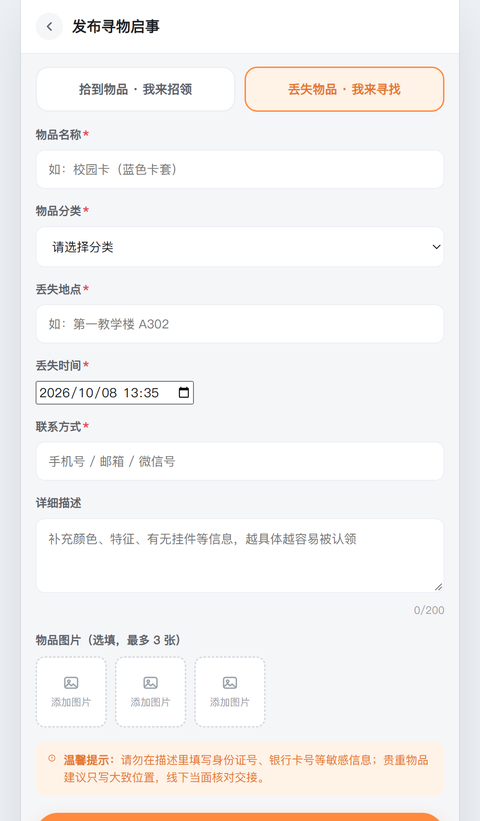
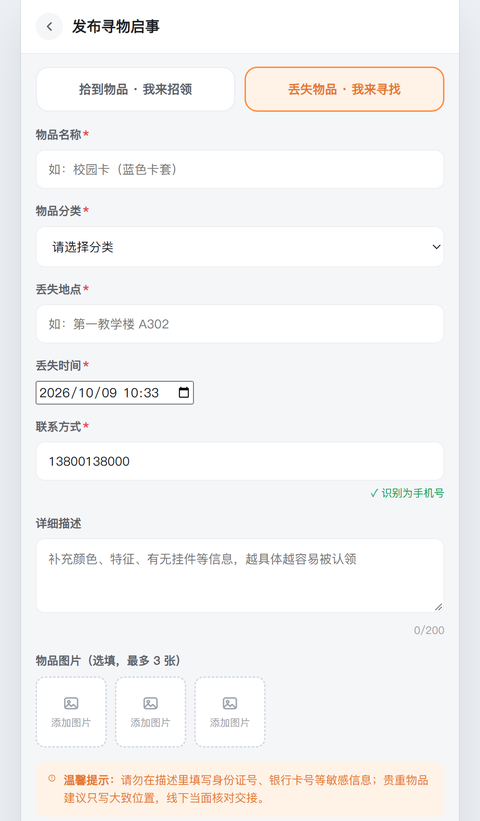
docs: 重出界面预览截图，补上收藏分段、联系方式预填与卡片缩略图

diff --git a/README.md b/README.md
@@ -38,13 +38,18 @@
 
 ## 二、界面预览
 
-点开就能用的四个主要界面（图是 2 倍图缩到 480px）：
+点开就能用的六个主要界面（图是 2 倍图缩到 480px）：
 
 | 首页 | 搜索（命中关键词会高亮） |
 | :---: | :---: |
 | ![首页](screenshots/01-首页.png) | ![搜索页](screenshots/02-搜索页.png) |
-| **发布页 · 寻物**（招领页同结构、换配色与字段） | **我的发布** |
-| ![发布页](screenshots/03-发布页.png) | ![我的发布](screenshots/04-我的发布.png) |
+| **发布页 · 寻物**（联系方式已预填、边打边提示识别结果） | **信息详情页**（联系方式打码 + 一键复制） |
+| ![发布页](screenshots/03-发布页.png) | ![详情页](screenshots/06-详情页.png) |
+| **我的发布**（分段含「收藏 N」；第一条卡片用上了缩略图） | **收藏列表**（自己收藏的和别人的混在一起排） |
+| ![我的发布](screenshots/04-我的发布.png) | ![收藏列表](screenshots/05-收藏列表.png) |
+
+> 说明：示例数据本身不带图片，所以直接双击打开看到的卡片仍是分类图标；
+> 上面「我的发布」那张图里的缩略图，是**演示时真的发布了一条带图片的信息**之后的效果。
 
 ---
 
